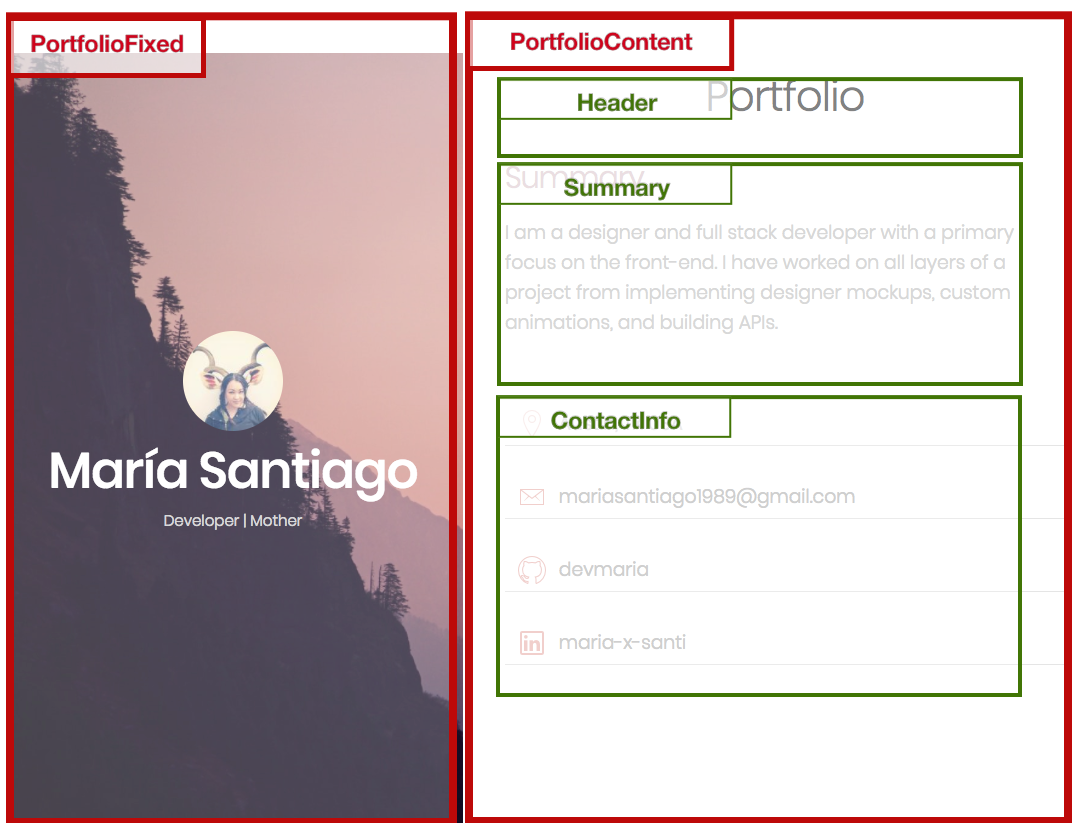
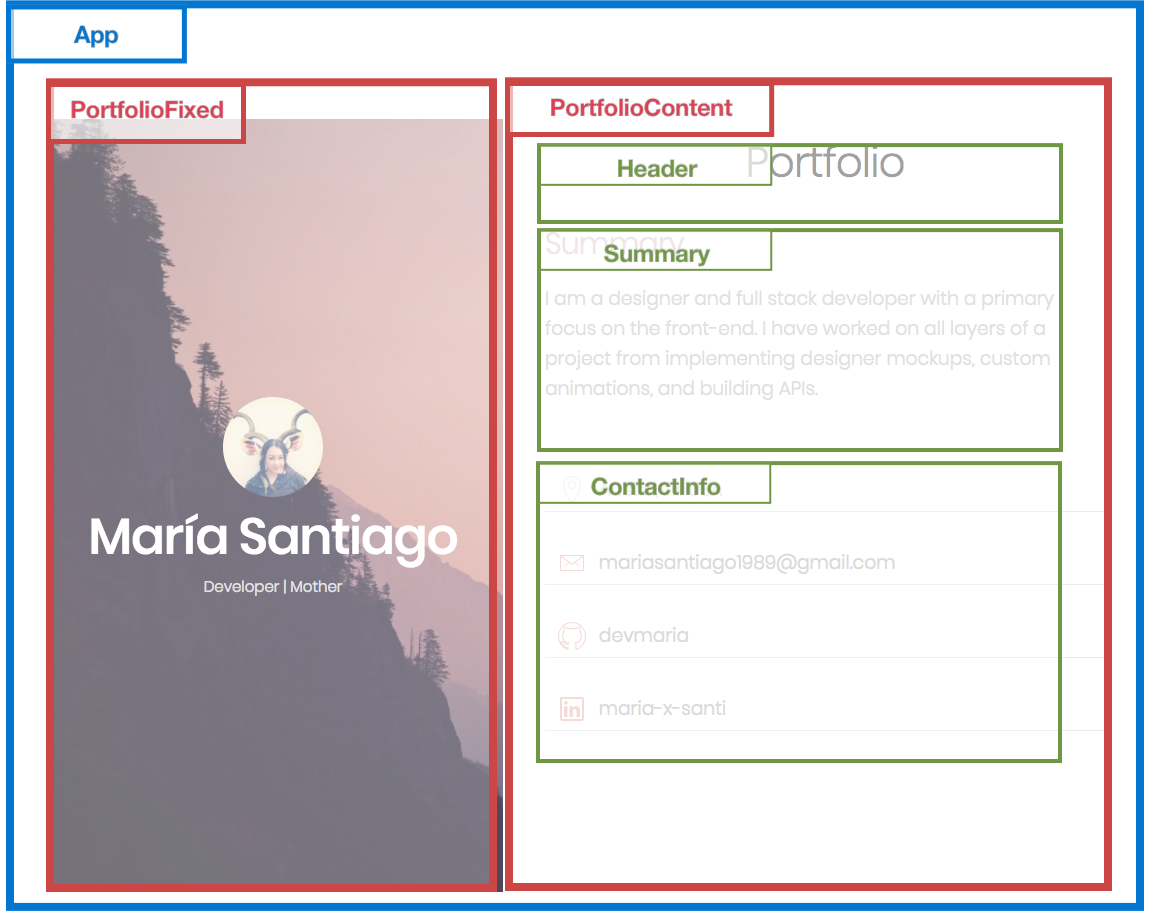
ok cool updating instructions

diff --git a/README.md b/README.md
@@ -46,7 +46,18 @@ cd ..
 npm start
 ```
 
-2. Additional Configuration: You will need to import the project styles (`css/styles.css`) into the `index.js` file (you will use these styles in place of `index.css`).
+2. Additional Configuration:
+  - For fonts + icons: the files are loaded from a CDN in the `<head>` of the `index.html` inside the `public/` directory.
+    - in `public/index.html`
+    ```html
+    <head>
+      ...
+      <title>Portfolio</title>
+      <link href="https://fonts.googleapis.com/css?family=Poppins:200,300,400,500,600,700,800" rel="stylesheet">
+      <link rel="stylesheet" href="https://cdnjs.cloudflare.com/ajax/libs/ionicons/2.0.1/css/ionicons.min.css">
+    </head>
+    ```
+  - For project styles:  You will need to import the project styles (`css/styles.css`) into the `index.js` file (you will use these styles in place of `index.css`).
 
 
 ### The Component Structure
@@ -54,6 +65,7 @@ npm start
 
 ### Site HTML
 ```html
+<!-- App  -->
 <div id="app-container">
 
   <!-- PortfolioFixed (left-column) -->
